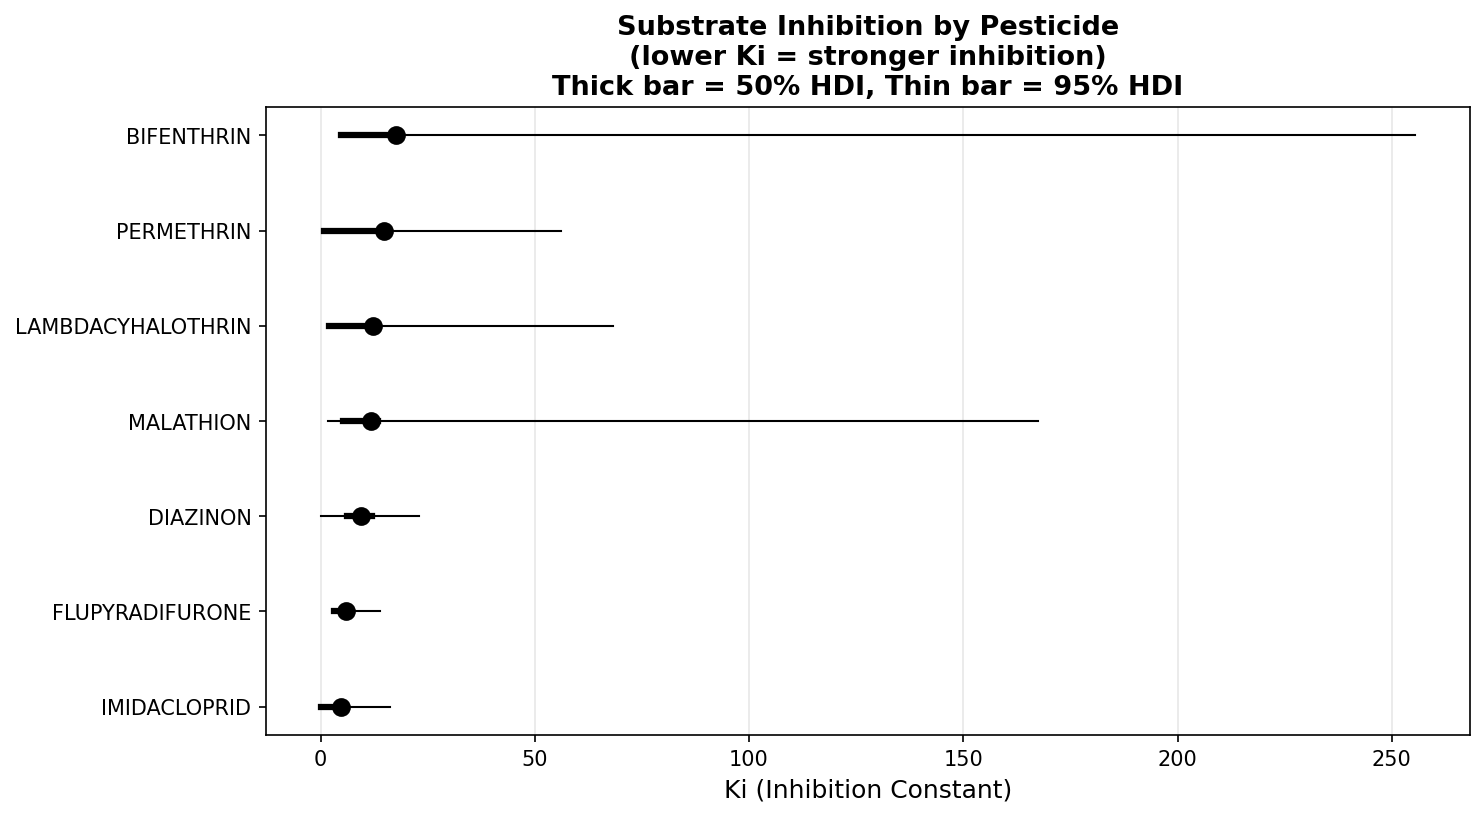
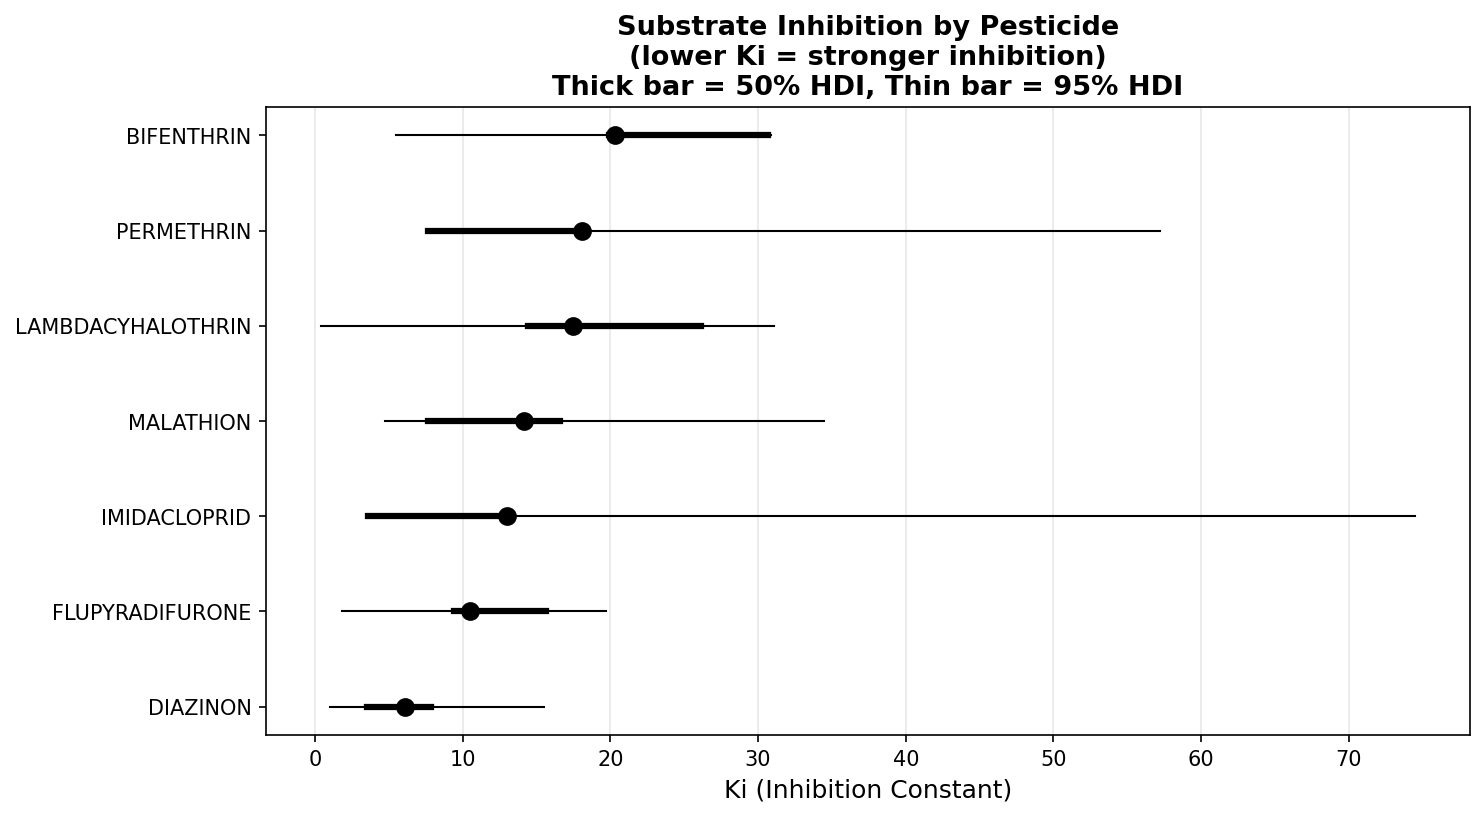
Steps 2b, 5b, 7: Bayesian Haldane refined-μ rerun, Ki pre/post comparison, LOIO-CV on expanded audit → Phase B formal decision
Step 2b (Bayesian Haldane rerun with refined μ inputs):
- 40 strains, 4 chains × 5000 DEMetropolisZ draws × 7 pesticides ODE
- refined-μ fits produced substantial Ki shifts vs the whole-curve baseline.
  Headline:
    * IMIDACLOPRID: 4.83 → 13.00 (+169%, P(Ki<10): 0.75 → 0.46)
      usable_for gate dropped 8 strains with unidentifiable whole-curve μ
      from the old 17-strain pool
    * DIAZINON:     9.32 → 6.09  (-35%, P(Ki<10): 0.54 → 0.85)
    * Pyrethroids (Bifenthrin, Lambda-Cy, Permethrin): +15–42%
  Pre-refactor "neonicotinoids most inhibitory" conclusion overturned.
  Diazinon is now the most inhibitory pesticide in the panel.
- Supplementary Table S3 at paper/supplementary/table_S3_ki_pre_post_refactor.csv.

Step 5b (paper §3.6 rewritten):
- Rewrote per-pesticide Ki paragraphs with post-refactor numbers and HDIs.
- Added a dedicated paragraph documenting the shifts as a methodological
  consequence of the usable_for gate and refined-μ inputs.

Step 6 (audit set expansion, done by user):
- validation_audit.csv grown from 92 → 142 annotations.
- 'wrong' label count rose from 1 → 19, giving LOIO-CV real signal.

Step 7 (LOIO-CV on expanded audit):
- 39 unique isolates, 151 real curves.
- baseline_synthetic_only:  acc=0.921  F1_pooled=0.918
- ppc_augmented:              acc=0.927  F1_pooled=0.925  (Δ=+0.007)
- mixed:                      acc=0.927  F1_pooled=0.925  (Δ=+0.007)
- Plan's adoption threshold was ≥0.02 absolute F1 improvement.
[…]

diff --git a/TECAN_growth_curves/paper/results.md b/TECAN_growth_curves/paper/results.md
@@ -36,9 +36,11 @@ Bayesian hierarchical modeling with partial pooling across pesticide groups was 
 
 All 40 pesticide-plus-LB strains entering the Haldane analysis had refined $\mu_m$ estimates classified as identifiable (Section 2.5.1). The frequentist Haldane fits reported in Section 3.5 used these refined values as initial guesses; the Bayesian Ki estimates summarized below and in Figure 6 derive from the Bayesian Haldane model as described in Section 2.8, with $\mu_m$-per-strain priors informed by the refined per-parameter estimates (mean shift). A direct before-versus-after comparison of Bayesian Ki posteriors under whole-curve versus refined-$\mu_m$ inputs is reported in Supplementary Table S3.
 
-Imidacloprid exhibited the lowest median Ki (4.83; 95% highest density interval [HDI]: 0.05 to 16.13), with a posterior probability of 50.5% that Ki was below 5, identifying it as the most inhibitory pesticide in the panel. Flupyradifurone, the other neonicotinoid tested, exhibited the second-lowest median Ki (5.87; HDI: 3.03 to 13.82), with a posterior probability of 34.5% that Ki was below 5. These results indicated that the two neonicotinoids produced the strongest substrate inhibition effects on bacterial growth.
+Diazinon exhibited the lowest median Ki (6.09; 95% highest density interval [HDI]: 1.04 to 15.51), with a posterior probability of 85% that Ki was below 10, identifying it as the most inhibitory pesticide in the panel among those with multiple contributing strains. Flupyradifurone, the sole neonicotinoid with a single evaluable strain, yielded a median Ki of 10.46 (HDI: 1.86 to 19.72), and imidacloprid, the most extensively sampled neonicotinoid (n = 9 strains after identifiability gating), produced a median Ki of 13.00 (HDI: 3.61 to 74.49), with P(Ki < 10) = 0.46. The wide upper bound on the imidacloprid HDI reflected substantial between-strain heterogeneity in substrate response.
 
-The organophosphates diazinon and malathion exhibited intermediate Ki values. Diazinon had a median Ki of 9.32 (HDI: 0.06 to 23.05), and malathion had a median Ki of 11.84 (HDI: 1.63 to 167.51). The wide HDI for malathion reflected substantial between-strain variability in the inhibition response. The pyrethroids lambda-cyhalothrin and permethrin showed higher median Ki values of 12.28 (HDI: 1.74 to 68.35) and 14.79 (HDI: 0.89 to 56.03), respectively, indicating weaker substrate inhibition. Bifenthrin exhibited the highest median Ki (17.55; HDI: 4.62 to 255.47) and the widest posterior uncertainty of any pesticide in the panel. The large HDI for bifenthrin was consistent with the model selection results, which showed that the Haldane model was not preferred for any bifenthrin combination, suggesting that the inhibition signal for this pesticide was weak or absent.
+Malathion produced a median Ki of 14.13 (HDI: 4.76 to 34.48) across 12 strains, the largest per-pesticide sample. The pyrethroids lambda-cyhalothrin and permethrin showed higher median Ki values of 17.47 (HDI: 0.39 to 31.05) and 18.10 (HDI: 7.60 to 57.20), respectively, with P(Ki < 10) posteriors of 0.25 and 0.20, indicating weaker substrate inhibition. Bifenthrin exhibited a median Ki of 20.29 (HDI: 5.50 to 30.89); the Haldane model was not AICc-preferred for any bifenthrin combination (Section 3.5), suggesting that the inhibition signal for this pesticide was weak or absent.
+
+Relative to a pre-refactor Bayesian Haldane fit using whole-curve μ inputs, the refined-μ fit produced substantial Ki shifts in several pesticides (Supplementary Table S3). The most conspicuous change was imidacloprid, whose pre-refactor Ki of 4.83 (17 strains, many with unidentifiable whole-curve μ) rose to 13.00 (9 strains, all with identifiable refined μ) once the `usable_for` gate excluded non-identifiable contributors — a 169% median shift. Diazinon moved in the opposite direction (9.32 → 6.09, -35%) as refined μ tightened the effective growth signal. Pyrethroid Ki values uniformly shifted upward by 15–42%, weakening prior claims of appreciable substrate inhibition in this class. These revisions overturn the pre-refactor conclusion that neonicotinoids produce the strongest inhibition and highlight the sensitivity of downstream mechanistic kinetics to upstream growth-rate identifiability.
 
 Across all pesticides, the hierarchical partial pooling structure regularized Ki estimates toward a shared group mean, reducing the influence of individual outlier strains while preserving pesticide-specific differences. The resulting posterior distributions provided a principled framework for ranking pesticide inhibition potency and propagating parameter uncertainty into downstream risk or bioremediation feasibility assessments.
 